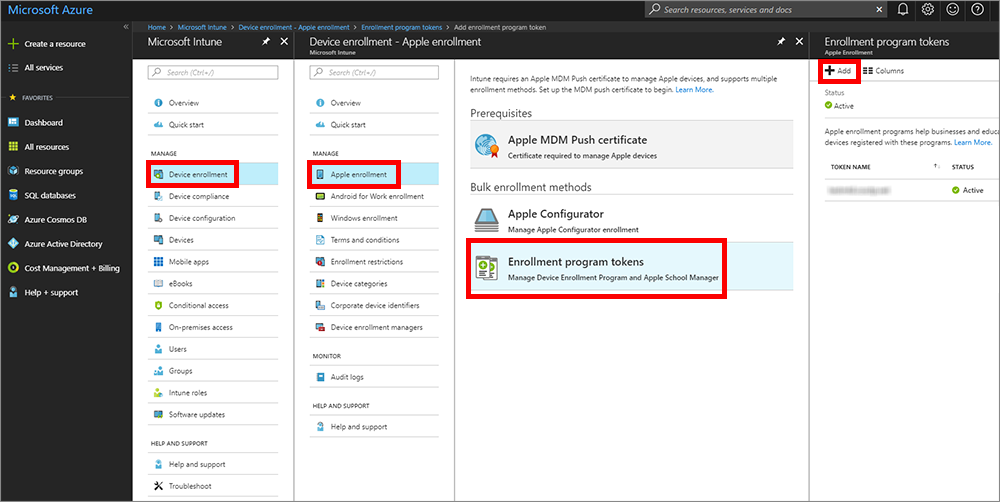
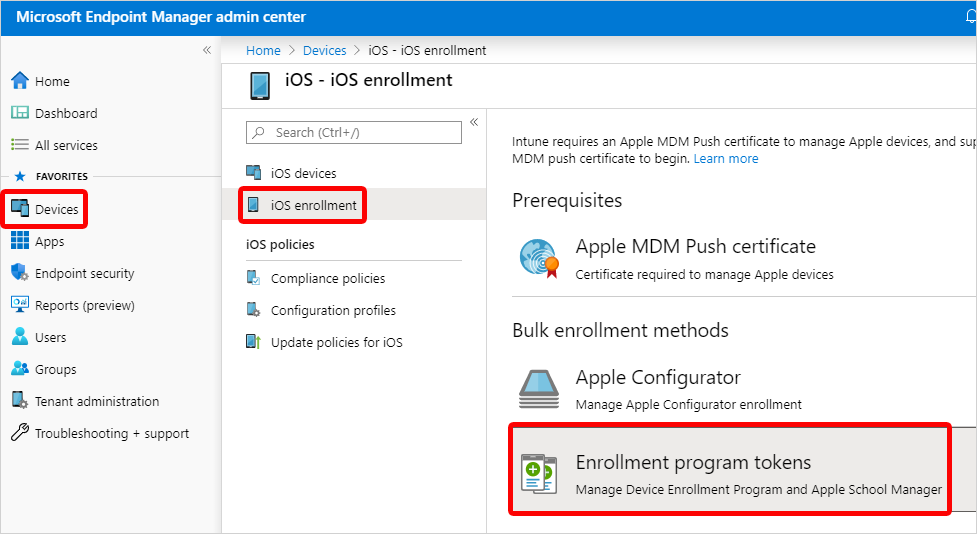
memac changes

diff --git a/intune/enrollment/device-enrollment-program-enroll-ios.md b/intune/enrollment/device-enrollment-program-enroll-ios.md
@@ -75,7 +75,7 @@ You use the Apple DEP portal to create a DEP token. You also use the DEP portal 
 
 ### Step 1. Download the Intune public key certificate required to create the token.
 
-1. In the [Microsoft Endpoint Manager Admin Center](https://go.microsoft.com/fwlink/?linkid=2109431), choose **Device enrollment** > **Apple enrollment** > **Enrollment Program Tokens** > **Add**.
+1. In the [Microsoft Endpoint Manager Admin Center](https://go.microsoft.com/fwlink/?linkid=2109431), choose **Devices** > **iOS** > **ioS enrollment** > **Enrollment Program Tokens** > **Add**.
 
     ![Get an enrollment program token.](./media/device-enrollment-program-enroll-ios/image01.png)
 
@@ -130,7 +130,7 @@ Now that you've installed your token, you can create an enrollment profile for D
 > Devices will be blocked if there aren't enough Company Portal licenses for a VPP token, or if the token has expired. Intune will display an alert when a token is about to expire or licenses are running low.
  
 
-1. In the [Microsoft Endpoint Manager Admin Center](https://go.microsoft.com/fwlink/?linkid=2109431), choose **Device enrollment** > **Apple Enrollment** > **Enrollment program tokens**.
+1. In the [Microsoft Endpoint Manager Admin Center](https://go.microsoft.com/fwlink/?linkid=2109431), choose **Devices** > **iOS** > **ioS enrollment** > **Enrollment Program Tokens**.
 2. Select a token, choose **Profiles** > **Create profile** > **iOS**.
 
     ![Create a profile screenshot.](./media/device-enrollment-program-enroll-ios/image04.png)
@@ -247,7 +247,7 @@ Now that you've installed your token, you can create an enrollment profile for D
 ## Sync managed devices
 Now that Intune has permission to manage your devices, you can synchronize Intune with Apple to see your managed devices in Intune in the Azure portal.
 
-1. In the [Microsoft Endpoint Manager Admin Center](https://go.microsoft.com/fwlink/?linkid=2109431), choose **Device enrollment** > **Apple Enrollment** > **Enrollment program tokens** > choose a token in the list > **Devices** > **Sync**.
+1. In the [Microsoft Endpoint Manager Admin Center](https://go.microsoft.com/fwlink/?linkid=2109431), choose **Devices** > **iOS** > **ioS enrollment** > **Enrollment Program Tokens** > choose a token in the list > **Devices** > **Sync**.
    ![Screenshot of the Enrollment Program Devices node and Sync link.](./media/device-enrollment-program-enroll-ios/image06.png)
 
    To follow Apple’s terms for acceptable enrollment program traffic, Intune imposes the following restrictions:
@@ -261,7 +261,7 @@ You must assign an enrollment program profile to devices before they can enroll.
 >[!NOTE]
 >You can also assign serial numbers to profiles from the **Apple Serial Numbers** blade.
 
-1. In the [Microsoft Endpoint Manager Admin Center](https://go.microsoft.com/fwlink/?linkid=2109431), choose **Device enrollment** > **Apple Enrollment** > **Enrollment program tokens** > choose a token in the list.
+1. In the [Microsoft Endpoint Manager Admin Center](https://go.microsoft.com/fwlink/?linkid=2109431), choose **Devices** > **iOS** > **ioS enrollment** > **Enrollment Program Tokens** > choose a token in the list.
 2. Choose **Devices** > choose devices in the list > **Assign profile**.
 3. Under **Assign profile**, choose a profile for the devices > **Assign**.
 
@@ -269,7 +269,7 @@ You must assign an enrollment program profile to devices before they can enroll.
 
 You can pick a default profile to be applied to all devices enrolling with a specific token.
 
-1. In the [Microsoft Endpoint Manager Admin Center](https://go.microsoft.com/fwlink/?linkid=2109431), choose **Device enrollment** > **Apple Enrollment** > **Enrollment program tokens** > choose a token in the list.
+1. In the [Microsoft Endpoint Manager Admin Center](https://go.microsoft.com/fwlink/?linkid=2109431), choose **Devices** > **iOS** > **ioS enrollment** > **Enrollment Program Tokens** > choose a token in the list.
 2. Choose **Set Default Profile**, choose a profile in the drop-down list, and then choose **Save**. This profile will be applied to all devices that enroll with the token.
 
 ## Distribute devices
@@ -285,7 +285,7 @@ See [Enroll your iOS device in Intune with the Device Enrollment Program](/intun
     ![Screenshot of generate new token.](./media/device-enrollment-program-enroll-ios/generatenewtoken.png)
 
 4. Choose **Your Server Token**.  
-5. In [Intune in the Azure portal](https://aka.ms/intuneportal), choose **Device enrollment** > **Apple Enrollment** > **Enrollment program tokens** > choose the token.
+5. In the [Microsoft Endpoint Manager Admin Center](https://go.microsoft.com/fwlink/?linkid=2109431), choose **Devices** > **iOS** > **ioS enrollment** > **Enrollment Program Tokens** > choose the token.
     ![Screenshot of enrollment program tokens.](./media/device-enrollment-program-enroll-ios/enrollmentprogramtokens.png)
 
 6. Choose **Renew token** and enter the Apple ID used to create the original token.  
